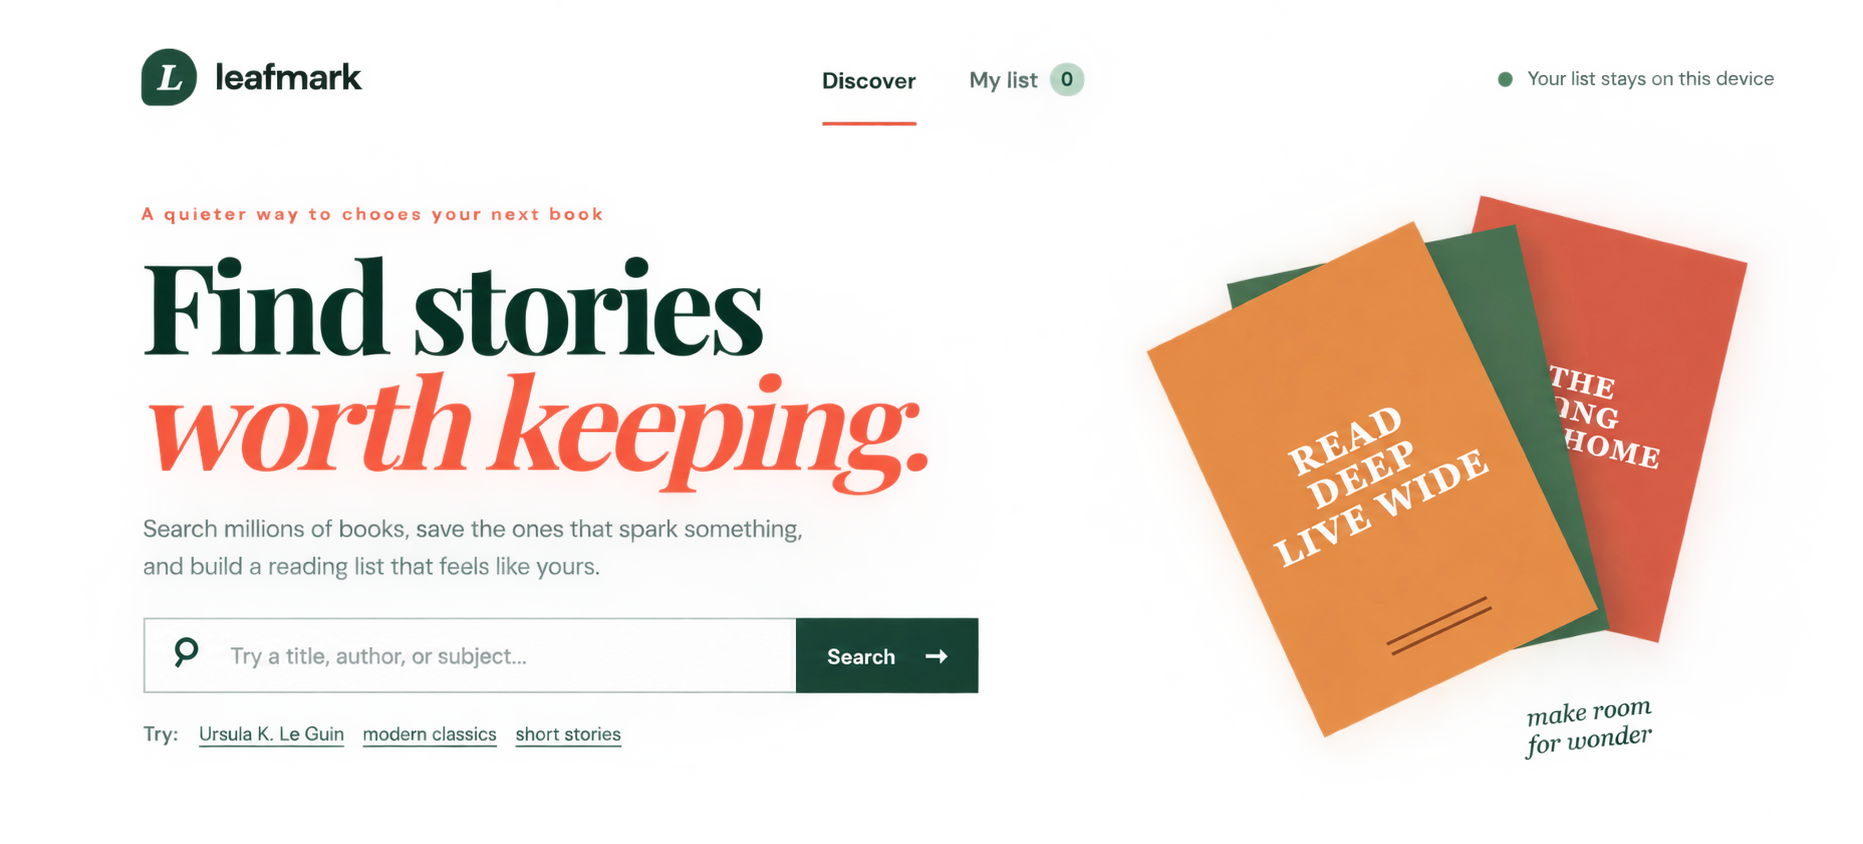
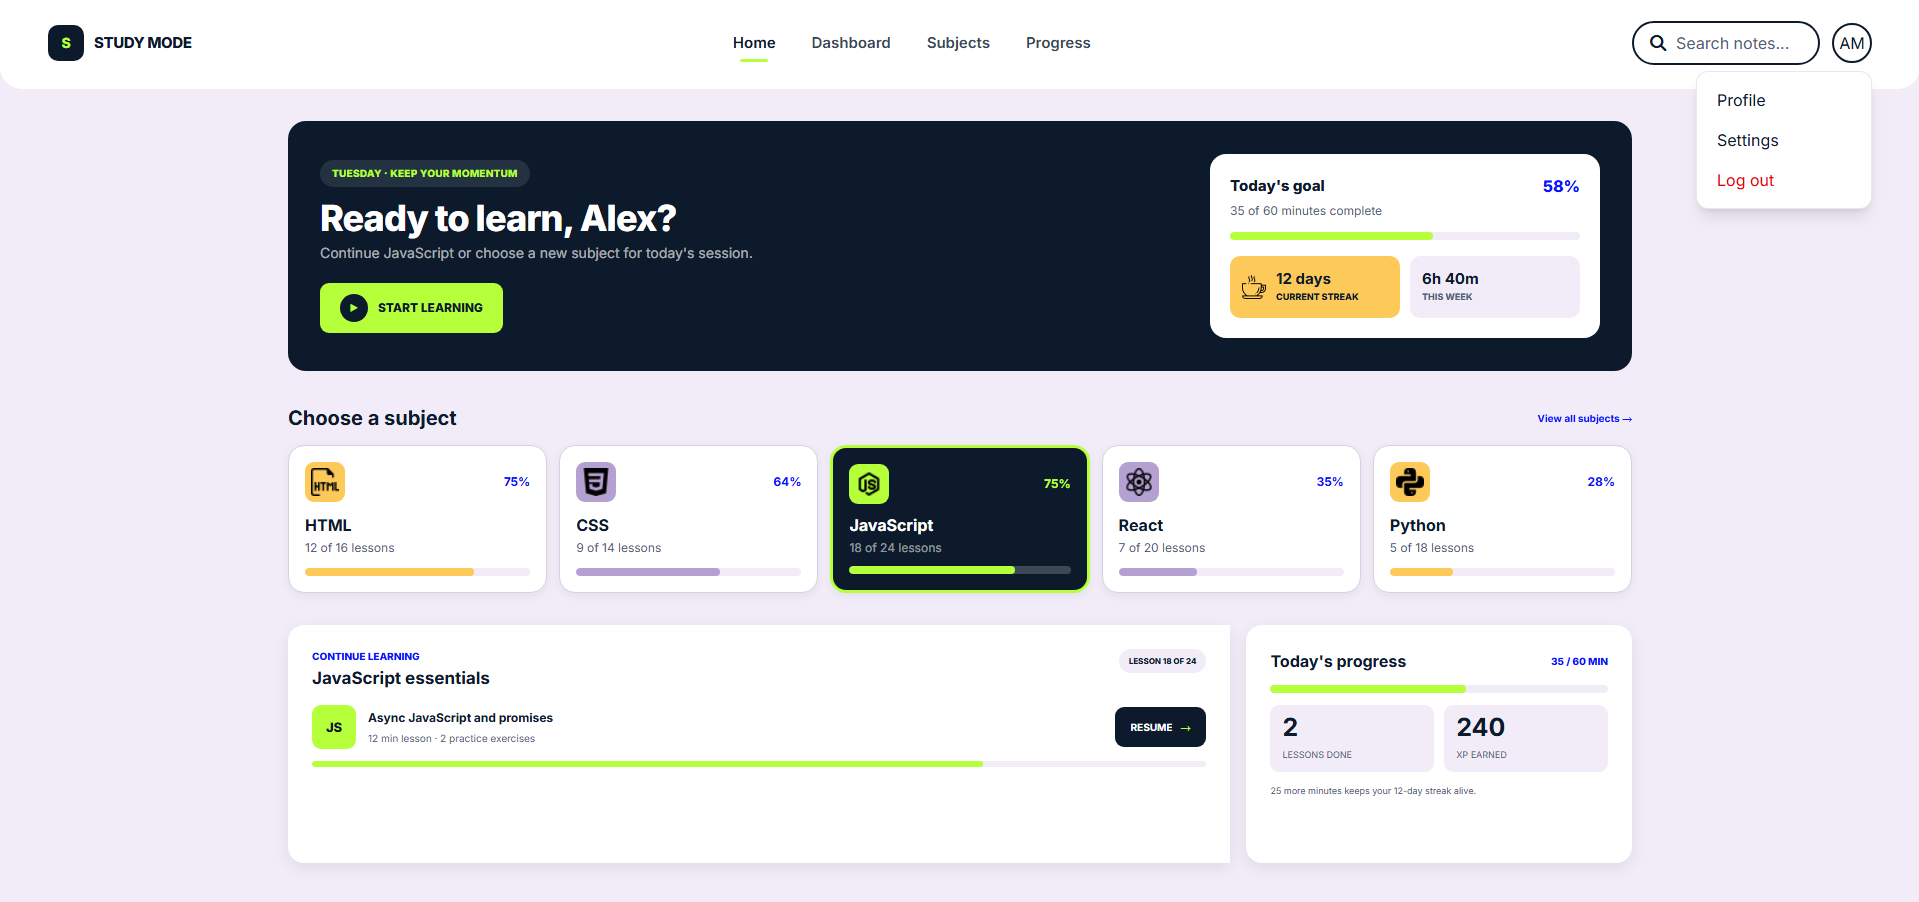
improve ui_behavior

diff --git a/index.html b/index.html
@@ -2,7 +2,7 @@
 <html lang="en">
   <head>
     <meta charset="UTF-8" />
-    <link rel="icon" type="image/svg+xml" href="/images/fav.png" />
+    <link rel="icon" type="image/jpeg" href="/images/favicon.jpg" />
     <meta name="viewport" content="width=device-width, initial-scale=1.0" />
     <link rel="stylesheet" href="https://cdnjs.cloudflare.com/ajax/libs/font-awesome/7.3.0/css/all.min.css" integrity="sha512-ApSLB1Pd3/bZN8fWB/RG9YhN/7bd9Hkf3AGaE2mPfebjrxagjuBtx2GcgdqIlJkUzwylBo61r9Xa9NmgBI0swA==" crossorigin="anonymous" referrerpolicy="no-referrer" />
     <title>AungMyintMyat &mdash;&mdash; Portfolio</title>
